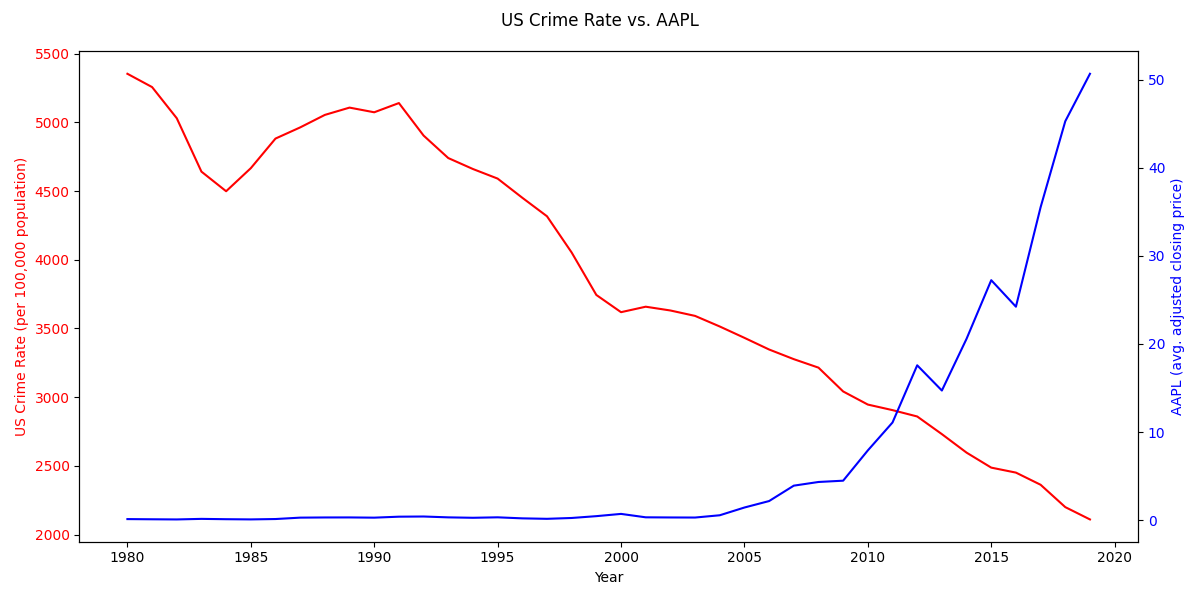
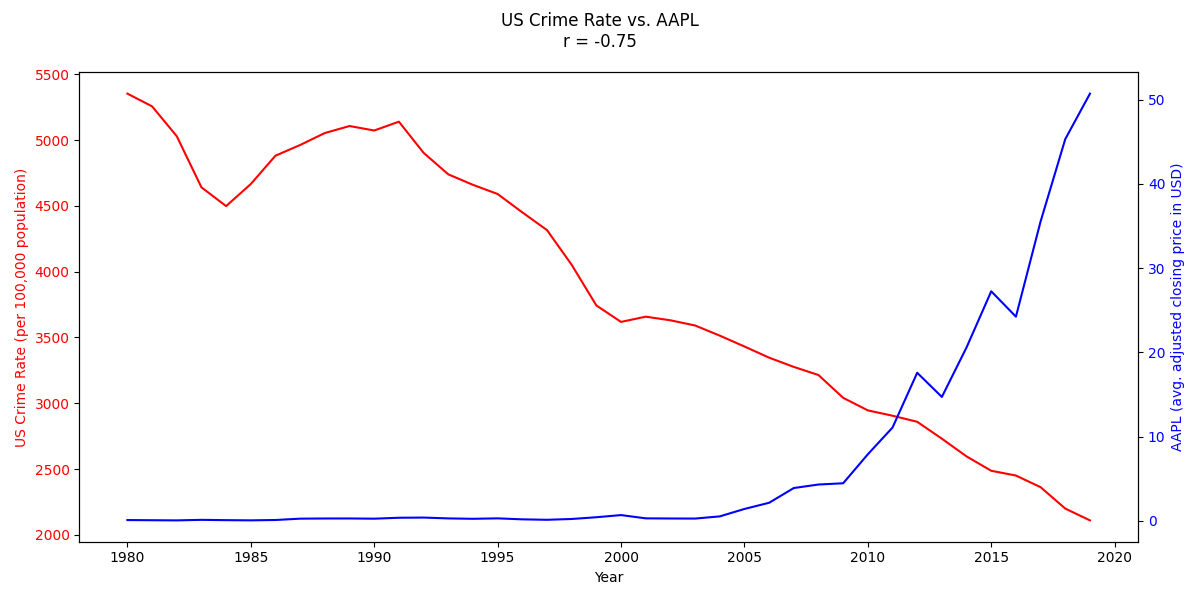
Adjusted graph

diff --git a/stock_data.py b/stock_data.py
@@ -20,7 +20,7 @@ df_s = df_s.drop("Date", axis=1).groupby("Year").mean()
 # Merge
 merged_df = pd.merge(df_c, df_s, on="Year")
 
-# Plot
+# Setup plotting
 attr1 = "Data.Rates.Property.All"
 attr2 = "Adjusted Close"
 color1 = "Red"
@@ -31,16 +31,19 @@ attribute1 = merged_df[attr1]
 attribute2 = merged_df[attr2]
 label1 = "US Crime Rate"
 label2 = stock
+correlation = merged_df[attr1].corr(merged_df[attr2])
+
+# Plot and save fig
 fig, ax1 = plt.subplots(figsize=(12, 6))
 ax1.set_xlabel("Year")
 ax1.set_ylabel(label1 + " (per 100,000 population)", color=color1)
 ax1.plot(years, attribute1, label=label1, color=color1, marker=None, linestyle="-")
 ax1.tick_params(axis="y", labelcolor=color1)
 ax2 = ax1.twinx()
-ax2.set_ylabel(label2+ " (avg. adjusted closing price)", color=color2)
+ax2.set_ylabel(label2 + " (avg. adjusted closing price in USD)", color=color2)
 ax2.plot(years, attribute2, label=label2, color=color2, marker=None, linestyle="-")
 ax2.tick_params(axis="y", labelcolor=color2)
-fig.suptitle(f"{label1} vs. {label2}")
+fig.suptitle(f"{label1} vs. {label2}\nr = {round(correlation, 2)}")
 fig.tight_layout()
 
 plt.savefig(os.path.join(figures, f"{attr1}_vs_{stock}.png"))

diff --git a/library.py b/library.py
@@ -26,6 +26,3 @@ def load_crime_df(include_states=False):
         df = df[~df["State"].str.contains("United States")].reset_index(drop=True)
 
     return df
-
-
-print(load_crime_df(include_states=True).groupby("Year")["Data.Population"].sum())
